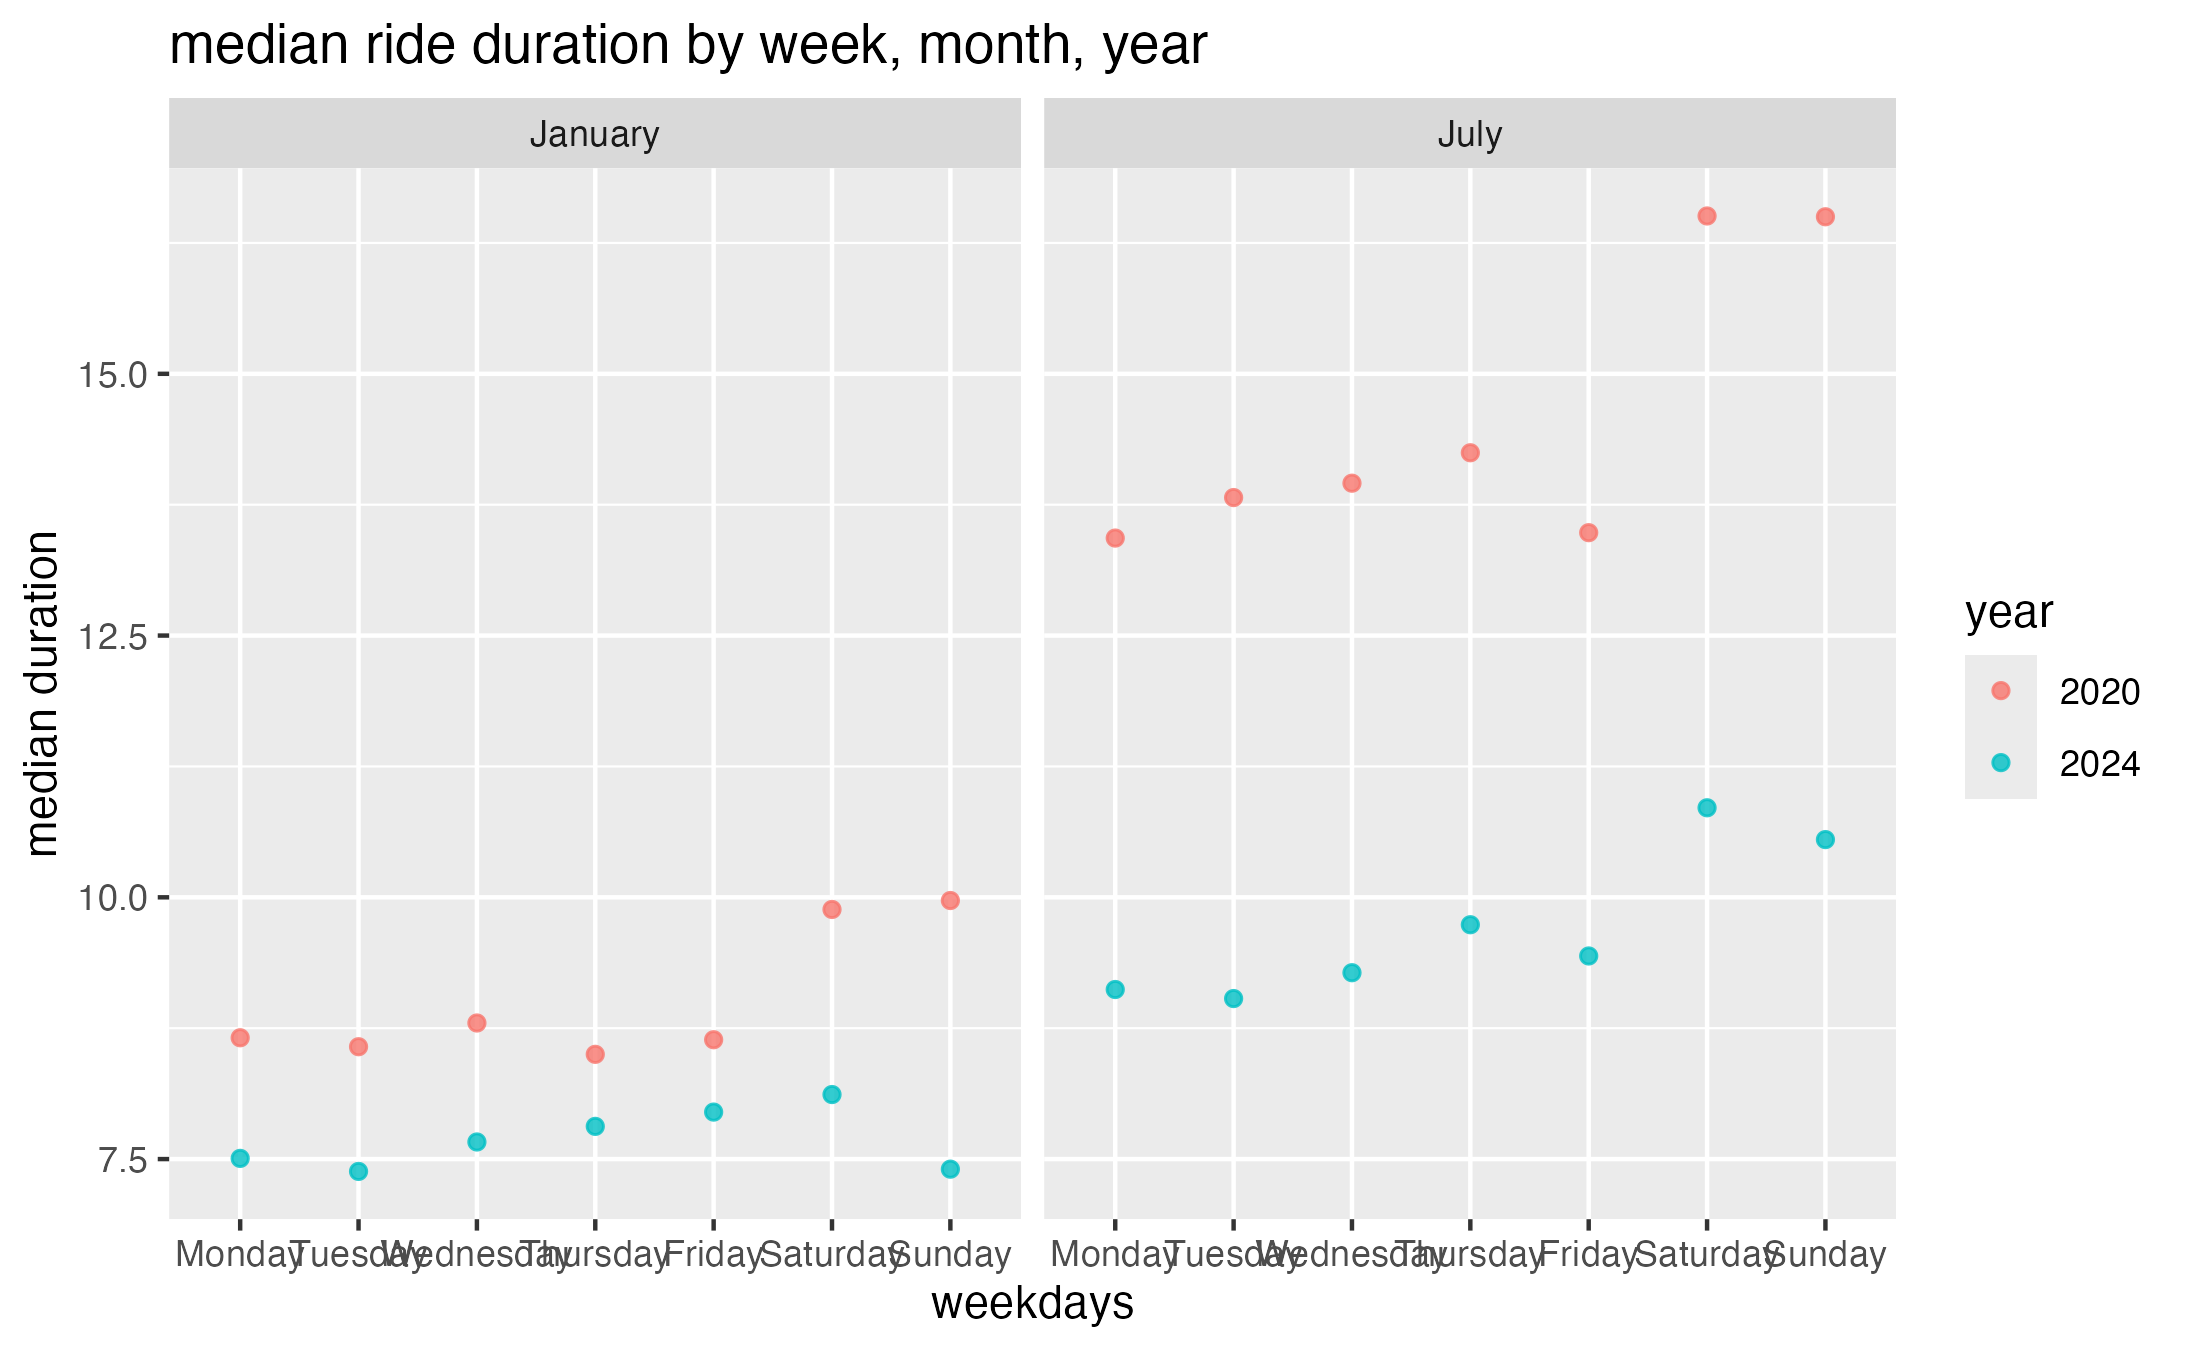
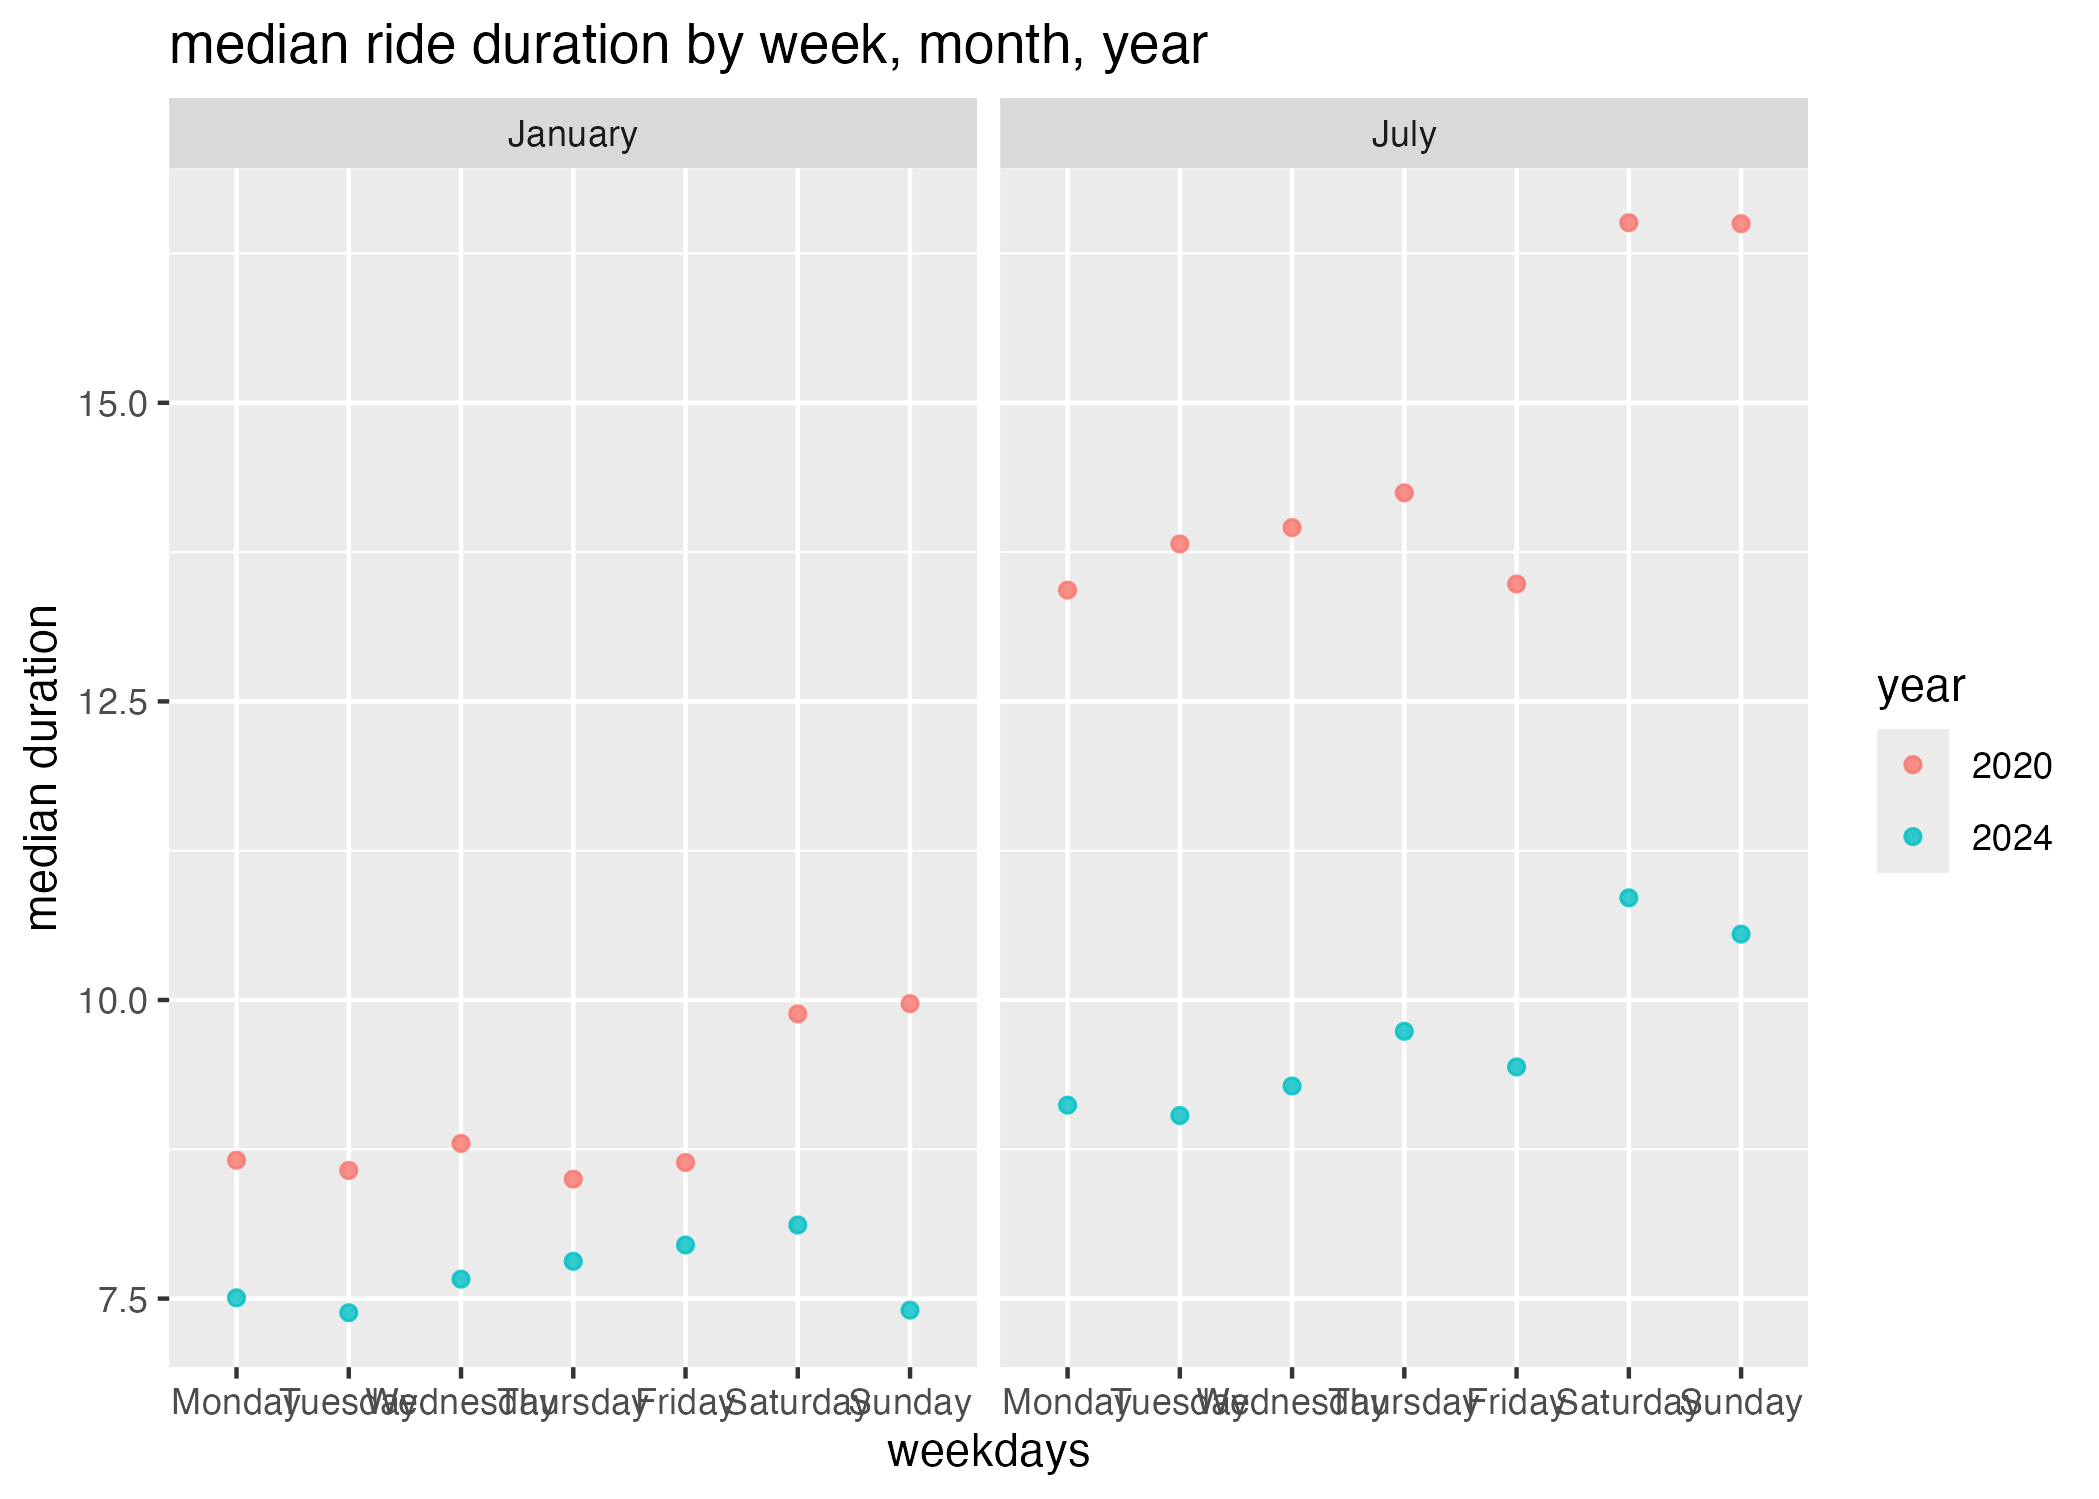
final

diff --git a/p8105_hw3_tc3524.md b/p8105_hw3_tc3524.md
@@ -549,6 +549,12 @@ citibike |>
 
 ![](p8105_hw3_tc3524_files/figure-gfm/unnamed-chunk-20-1.png)<!-- -->
 
+``` r
+  ggsave("hw3_q3_median_ride_duration.png")
+```
+
+    ## Saving 7 x 5 in image
+
 People spend less time riding bikes in January in both 2020 and 2024
 compared to July. People spent more time riding bikes in 2020 in general
 compared to 2024. In July 2020, people ride bikes for longer duration
@@ -569,6 +575,12 @@ citibike |>
 ```
 
 ![](p8105_hw3_tc3524_files/figure-gfm/unnamed-chunk-21-1.png)<!-- -->
+
+``` r
+  ggsave("hw3_q3_ride_duration_by_membership.png")
+```
+
+    ## Saving 7 x 5 in image
 
 Ride duration for all month and years stratum is right skewed. The
 median of bike duration is short around only 7 - 10 minutes for all
